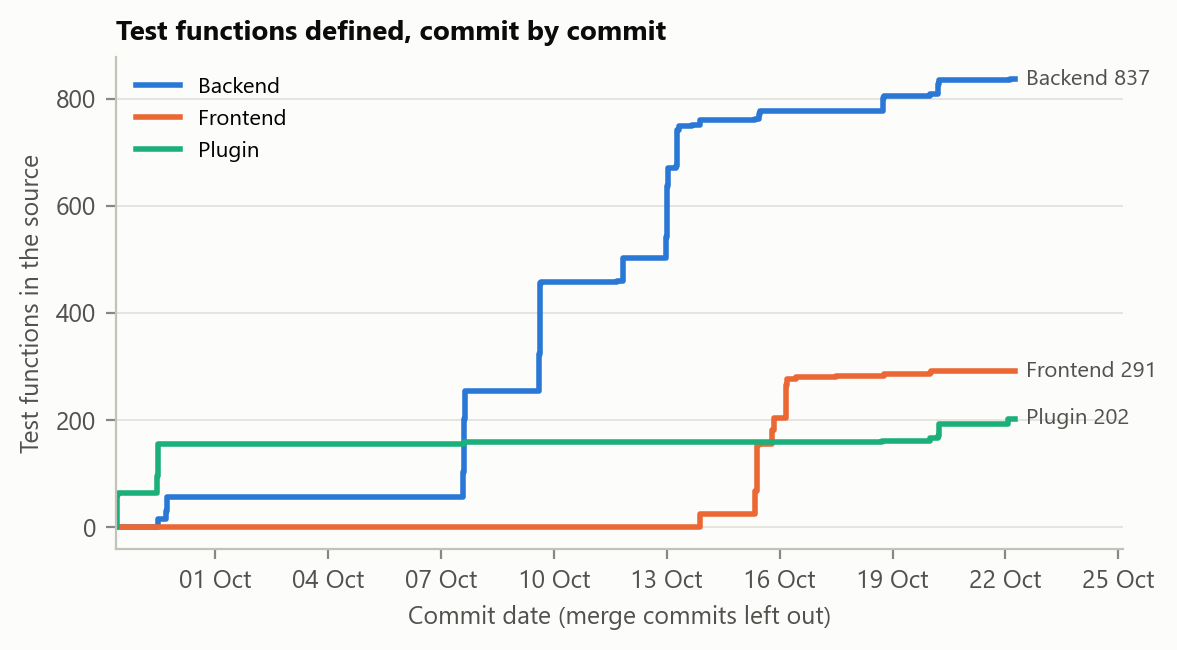
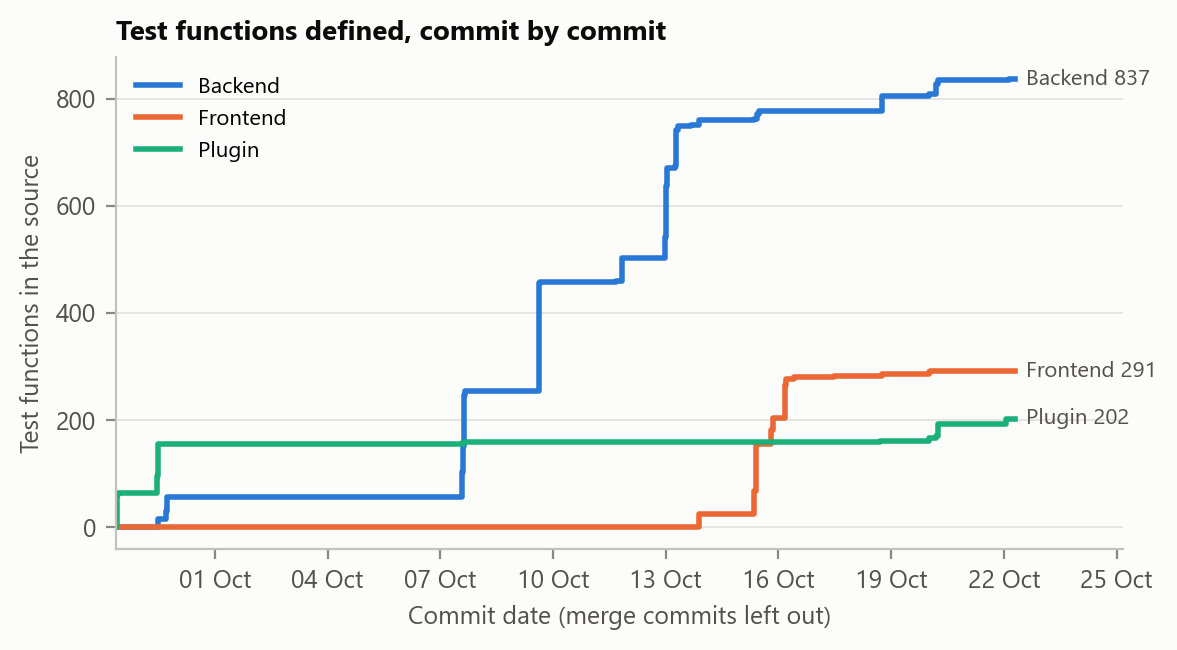
docs(testing): the gate's checks carry their own commit; the remaining figures in Annexure A
- The register stamps each gate check with the gate run's own commit and that commit's CI run,
  read from the log's name, instead of the campaign's commit; Annexure B names the gate run.
- Annexure A.14 shows the four figures the chapter does not: test growth, tests by phase, the
  simulator's validation, and complexity against branch coverage.
- The experiments' files are copied with LF, as the repository stores text.
- The draft cites gate runs and the register as they are, and fills every gate-run reference
  from the cited gate's log.

diff --git a/scripts/report/test_register.py b/scripts/report/test_register.py
@@ -209,6 +209,7 @@ class Register:
         self.commit = manifest["commit"][:7]
         self.steps = {step["name"]: step for step in manifest["steps"]}
         self.rows: list[Row] = []
+        self.gate_run = ""
 
     def add(self, *, suite: str, level: str, technique: str, component: str, file: str, test: str,
             needle: str, description: str, result: str, time: float, ci_job: str | None) -> None:
@@ -351,7 +352,13 @@ class Register:
                     time=seconds(case), ci_job=None,
                 )
 
-    def gate(self, log: Path) -> None:
+    def gate(self, log: Path, ci_path: Path | None) -> None:
+        # The gate ran at its own commit, named in its log's file name (gate-run-<n>-<commit>.log),
+        # and CI's Phase 0 job at that commit is the one that also ran its Phase 0 checks.
+        named = re.match(r"gate-run-(\d+)-([0-9a-f]{7})", log.name)
+        gate_commit = named.group(2) if named else self.commit
+        self.gate_run = named.group(1) if named else ""
+        gate_ci = ci_links(ci_path, gate_commit)
         phase = "0"
         lines = log.read_text(encoding="utf-8", errors="replace").splitlines()
         for index, line in enumerate(lines):
@@ -371,6 +378,8 @@ class Register:
                 )
                 # The gate's phase is the check's own, not the commit that added it.
                 self.rows[-1].phase = phase
+                self.rows[-1].ran_at = gate_commit
+                self.rows[-1].ci = gate_ci.get("Phase checks", "") if phase == "0" else ""
 
 
 # --------------------------------------------------------------------------------------------------
@@ -405,7 +414,7 @@ def write(register: Register) -> None:
             writer.writerow([
                 suite, rows[0].level if len({r.level for r in rows}) == 1 else "mixed", len(rows),
                 counts["passed"], counts["failed"], counts["error"], counts["skipped"],
-                round(sum(row.seconds for row in rows), 1), register.commit, rows[0].ci,
+                round(sum(row.seconds for row in rows), 1), rows[0].ran_at, rows[0].ci,
             ])
 
     lines = [
@@ -416,14 +425,16 @@ def write(register: Register) -> None:
         "are in `data/test-register.csv`. *Test* is the name the runner reported, as the chapter cites "
         "it, and *What it checks* the test's own description where it has one. *Added in* is the commit "
         "that introduced the test and *Phase* that commit's phase (H: the hardening of Phases 1 to 6). "
-        "Every result is from the campaign's commit; under each suite is the CI run that also ran it, "
-        "where CI runs that suite.",
+        "Every result is from the campaign's commit, except the gate's checks, which are from the gate "
+        "run named under that suite. Under each suite is the CI run that also ran it, where CI runs "
+        "that suite.",
         "",
     ]
     for suite, rows in by_suite.items():
         counts = Counter(row.result for row in rows)
         verdict = ", ".join(f"{count} {result}" for result, count in counts.most_common())
-        lines += [f"## {suite}", "", f"{len(rows)} tests: {verdict}. Ran at `{register.commit}`."]
+        gate = f", gate run {register.gate_run}" if rows[0].file == "scripts/verify.py" and register.gate_run else ""
+        lines += [f"## {suite}", "", f"{len(rows)} tests: {verdict}. Ran at `{rows[0].ran_at}`{gate}."]
         if rows[0].ci:
             link = re.fullmatch(r"(CI run \d+) \((https://\S+)\)", rows[0].ci)
             lines.append(f"Also run by CI on every push: {f'[{link.group(1)}]({link.group(2)})' if link else rows[0].ci}.")
@@ -468,7 +479,7 @@ def main() -> int:
     register.frontend()
     register.lighthouse_audits()
     register.sample_services()
-    register.gate(args.gate)
+    register.gate(args.gate, args.ci)
     provenance.save()
     write(register)
 

diff --git a/docs/testing/work-in-progress/fill_placeholders.py b/docs/testing/work-in-progress/fill_placeholders.py
@@ -60,6 +60,30 @@ def outcome(row: dict[str, str]) -> str:
 
 filled: dict[str, str] = dict(values["literal"])
 
+# --- The gate run the chapter cites, read from its log ---------------------------------------------
+gate_log = repo / values["gate_log"]
+gate_lines = gate_log.read_text(encoding="utf-8", errors="replace").splitlines()
+gate_run = re.match(r"gate-run-(\d+)-([0-9a-f]{7})", gate_log.name)
+assert gate_run, f"not a gate log's name: {gate_log.name}"
+assert any(line.strip() == "ALL CHECKS PASSED" for line in gate_lines) and not any(line.startswith("[FAIL]") for line in gate_lines), \
+    f"{gate_log.name} did not pass, so the chapter cannot cite it"
+
+
+def gate_detail(check: str) -> str:
+    return gate_lines[gate_lines.index(f"[PASS] {check}") + 1].strip()
+
+
+published = re.fullmatch(r"(\d+) published, (\d+) failed, (\d+) dropped", gate_detail("a live plugin event reaches the backend"))
+gate_e2e = re.fullmatch(r"(\d+) passed", gate_detail("pytest -m e2e passes on the Compose stack"))
+assert published and gate_e2e, "the gate log's metrics or end-to-end line has another form"
+filled.update(
+    GATE_RUN=gate_run.group(1), GATE_COMMIT=gate_run.group(2), GATE_E2E=gate_e2e.group(1),
+    GATE_CHECKS=str(sum(1 for line in gate_lines if line.startswith("[PASS] "))),
+    R_METRICS_CHECK=(f"Passed in gate run {gate_run.group(1)}: {published.group(1)} events published since jenkins-dev "
+                     "started, " + ("none failed or dropped" if published.group(2) == published.group(3) == "0"
+                                    else f"{published.group(2)} failed and {published.group(3)} dropped")),
+)
+
 # --- CI history and the Lighthouse audits ----------------------------------------------------------
 ci_rows = read_csv(DATA / "ci-runs.csv")
 ci = {conclusion: sum(1 for r in ci_rows if r["conclusion"] == conclusion) for conclusion in ("success", "failure", "cancelled")}
@@ -87,7 +111,8 @@ for row in summary:
 rows.append(["**All**", "", f"**{totals[0]:,}**", f"**{totals[1]:,}**", f"**{totals[2] + totals[3]}**", f"**{totals[4]}**",
              f"**{totals[5]:,.0f}**", ""])
 filled["SUITES_TABLE"] = (
-    "**Table {T:suites}: Every suite the evidence campaign ran** (at `" + values["literal"]["COMMIT"]
+    "**Table {T:suites}: Every suite in the register** (the evidence campaign at `" + values["literal"]["COMMIT"]
+    + "`, and the gate's checks from gate run " + filled["GATE_RUN"] + " at `" + filled["GATE_COMMIT"]
     + "`; every test, with its file, phase, commit and CI link, is in Annexure B)" + LF + LF
     + table(["Suite", "Level", "Tests", "Passed", "Failed", "Skipped", "Seconds", "Also in CI"], rows,
             ["---", "---", "---:", "---:", "---:", "---:", "---:", "---"]))

diff --git a/scripts/report/testing_annexure.py b/scripts/report/testing_annexure.py
@@ -378,6 +378,31 @@ def section_complexity() -> list[str]:
     return lines
 
 
+# The figures the chapter does not show, so that every one the runs produced is in the report:
+# (file, caption, the data it is drawn from).
+FURTHER_FIGURES = [
+    ("f02-test-growth", "Test functions defined in the source, commit by commit, per component (merge commits left out)",
+     "`data/test-growth.csv`"),
+    ("f03-tests-by-phase", "The tests that ran in the evidence campaign, by the phase whose commit introduced each one",
+     "`data/test-register.csv`"),
+    ("f07-simulator-validation", "E2: the simulator against Milestone 2's measured runs, band by band",
+     "`data/experiments/simulation-m2-summary.csv`"),
+    ("f11-complexity-coverage", "The plugin's and the backend's functions with branches: cyclomatic complexity against "
+     "branch coverage, with those over 10 and under 80% covered named (the frontend's coverage is per file)",
+     "`data/complexity-all.csv`"),
+]
+
+
+def section_figures() -> list[str]:
+    lines = ["## A.14 Further figures", "",
+             "The chapter shows its figures where it discusses them; these four complete the set. Each is drawn "
+             "by `scripts/report/testing_figures.py` from the file named.", ""]
+    for number, (name, caption, source) in enumerate(FURTHER_FIGURES, start=1):
+        if (DOCS / "figures" / f"{name}.png").is_file():
+            lines += [f"![{caption}](figures/{name}.png)", "", f"**Figure A.{number}: {caption}** ({source})", ""]
+    return lines
+
+
 def main() -> int:
     parser = argparse.ArgumentParser(description=__doc__.splitlines()[0])
     parser.add_argument("campaign", type=Path)
@@ -394,7 +419,7 @@ def main() -> int:
                     section_coverage(args.campaign), section_mutation(args.campaign), section_experiments(),
                     section_system(args.system), section_screenshots(), section_lighthouse(args.campaign),
                     section_defects(), section_security(), section_dependency_scans(args.campaign),
-                    section_complexity()):
+                    section_complexity(), section_figures()):
         lines += section
     # newline: LF, as the repository stores text; text mode on Windows would write CRLF.
     (DOCS / "annexure-a-evidence.md").write_text("\n".join(lines) + "\n", encoding="utf-8", newline="\n")

diff --git a/scripts/report/testing_figures.py b/scripts/report/testing_figures.py
@@ -340,7 +340,8 @@ def copy_experiments(campaign: Path) -> None:
     target = DATA / "experiments"
     target.mkdir(parents=True, exist_ok=True)
     for source in sorted(folder.glob("*")) if folder.is_dir() else []:
-        (target / source.name).write_bytes(source.read_bytes())
+        # The experiments run on Windows and write CRLF; the repository stores text with LF.
+        (target / source.name).write_bytes(source.read_bytes().replace(b"\r\n", b"\n"))
         print(f"data experiments/{source.name}")
 
 
@@ -364,7 +365,7 @@ def figure_suites() -> None:
     axis.set_xscale("log")
     axis.set_xlabel("Tests that ran (log scale)")
     axis.grid(axis="y", visible=False)
-    axis.set_title("Every suite, one campaign: tests that ran per suite")
+    axis.set_title("Every suite in the register: tests that ran per suite")
     save(figure, "f01-tests-per-suite")
 
 

diff --git a/docs/testing/work-in-progress/chapter-8-draft.md b/docs/testing/work-in-progress/chapter-8-draft.md
@@ -19,8 +19,8 @@ results, and Section 8.10 summarises.
 **The rule for evidence.** Every result in this chapter comes from a run that happened, at a commit
 that is named. One evidence campaign ran every suite once, at commit `[[COMMIT]]` on
 [[DATE]], and kept each runner's own report: JUnit XML, coverage data, the mutation report and the
-logs (`scripts/test_campaign.py`). The register in Annexure B is built from those reports and lists
-every test that ran (`scripts/report/test_register.py`). Where a figure comes from an earlier run, it
+logs (`scripts/test_campaign.py`). The register in Annexure B is built from those reports and the
+gate run's log, and lists every test that ran (`scripts/report/test_register.py`). Where a figure comes from an earlier run, it
 says so. Nothing is estimated. Anything not yet run is listed as not yet run in Section 8.9.4.
 
 **A rehearsal of the campaign, at the earlier commit `ac8305a`, is not cited as evidence.** It is
@@ -32,10 +32,11 @@ recorded all the same:
 Its logs are kept, and Annexure A.2 describes it.
 
 **The results in brief.**
-- **The evidence campaign** ran [[TOTAL_TESTS]] tests in [[N_SUITES]] suites: [[TOTAL_PASSED]]
-  passed, [[TOTAL_FAILED]] failed and [[TOTAL_SKIPPED]] skipped (Section 8.9.1; every test in
-  Annexure B).
-- **The acceptance gate** passed all 89 of its checks on the same code, run 5 (Section 8.6.3).
+- **The register of every test** holds [[TOTAL_TESTS]] tests in [[N_SUITES]] suites, from the
+  evidence campaign and the gate run: [[TOTAL_PASSED]] passed, [[TOTAL_FAILED]] failed and
+  [[TOTAL_SKIPPED]] skipped (Section 8.9.1; every test in Annexure B).
+- **The acceptance gate** passed all [[GATE_CHECKS]] of its checks in gate run [[GATE_RUN]], at
+  `[[GATE_COMMIT]]` (Sections 8.4.8 and 8.6.3).
 - **Coverage:**
   - the plugin, 93.2% of lines and 79.4% of branches;
   - the backend, [[BACKEND_COVERAGE_ALL]] of statements over all its suites;
@@ -246,8 +247,8 @@ Table {T:matrix} in Section 8.5.4.
 **Deliverables.** The test code; the gate checks; the evidence campaign's reports; the register of
 every test (Annexure B); the evidence and data (Annexure A); and this chapter.
 
-**Schedule.** Tests were written within each phase, from 28 September to 22 October 2026, and the
-evidence campaign ran on [[DATE]]. The Phase 7 experiment on real Jenkins, and the Phase 8 chatbot
+**Schedule.** Tests were written within each phase, from 28 September to 22 October 2026 (Annexure
+A.14, Figures A.1 and A.2), and the evidence campaign ran on [[DATE]]. The Phase 7 experiment on real Jenkins, and the Phase 8 chatbot
 evaluation with human-labelled answers, come later and are outside this chapter (Section 8.9.4).
 
 ### 8.3.6 Task 6: inspection of the plan
@@ -491,7 +492,8 @@ The setting is now in `backend/pyproject.toml`, so every later measurement is ri
 Each gap now has a test, listed in D-069.
 
 **Complexity and coverage together.** Cyclomatic complexity [25] was measured for every function
-with lizard, to see where an untested branch matters most:
+with lizard, to see where an untested branch matters most. Annexure A.14 plots each function's
+complexity against its branch coverage (Figure A.4):
 [[COMPLEXITY_TABLE]]
 
 ### 8.4.7 Mutation testing
@@ -554,12 +556,13 @@ Every component is also checked without running it, on every push (Table {T:stat
 | --- | --- | --- | --- | --- |
 | Plugin | SpotBugs | Bug patterns in the bytecode | 0 bug instances | the campaign's plugin build |
 | Plugin | Spotless | Formatting | clean | the campaign's plugin build |
-| Backend | Ruff, with its Bandit security rules, and its formatter | Lint, imports, naming, security patterns, format | clean | gate run 5 |
-| Backend | mypy, strict | Types | clean | gate run 5 |
-| Frontend | ESLint, TypeScript strict | Lint, types | clean | gate run 5 |
+| Backend | Ruff, with its Bandit security rules, and its formatter | Lint, imports, naming, security patterns, format | clean | gate run [[GATE_RUN]] |
+| Backend | mypy, strict | Types | clean | gate run [[GATE_RUN]] |
+| Frontend | ESLint, TypeScript strict | Lint, types | clean | gate run [[GATE_RUN]] |
 
-Gate run 5 ran on code identical to the campaign's; the commits between them change documentation
-only.
+Gate run [[GATE_RUN]] ran at `[[GATE_COMMIT]]`. Between the campaign's commit and that one, the
+product's code changed only in the frontend's Vite version, a development tool (D-075); every other
+change is documentation or the scripts that build this chapter's tables.
 
 ## 8.5 Black-box testing
 
@@ -783,7 +786,7 @@ They check:
 - that the backend reports its database, Jenkins and model provider;
 - since D-070, that every container runs what the current source builds.
 
-All passed in the gate run at `[[GATE_COMMIT]]`.
+All passed in gate run [[GATE_RUN]], at `[[GATE_COMMIT]]`.
 
 **Compliance.** The project's own rules are gate checks, not conventions:
 - no use of Jenkins' script console anywhere;
@@ -804,7 +807,7 @@ All passed in the gate run at `[[GATE_COMMIT]]`.
     - **In the evidence campaign it ran with the real model,** in the suite's live mode, which it
       takes whenever a model key is configured: [[N_BACKEND_E2E]] tests, [[R_BACKEND_E2E]].
     - **The gate runs it on replayed recordings of the model,** so that its verdict depends on
-      neither the model nor its quota. Gate run 5 passed 12, plus the failing-branch chain
+      neither the model nor its quota. Gate run [[GATE_RUN]] passed [[GATE_E2E]], plus the failing-branch chain
       separately.
   - **The stack's system tests** take a freestyle chain and a Pipeline from a sentence typed into
     the stack's own frontend to a build that succeeds on an agent, followed live on the run card. The
@@ -978,6 +981,7 @@ compare policies.
 each FIFO band's wait within 0.1 s. Replaying the order Milestone 2's plugin actually dispatched in,
 it reproduced that run's band waits within 5 s each (at most 4.0%), and its 19 broken edges. The measured plugin run took
 6 s longer overall than the replay: the dispatcher's own delays, which the simulator does not model.
+Annexure A.14 draws the comparison band by band (Figure A.3).
 
 **Table {T:e2}: Milestone 2's workload under each policy** (simulated; mean wait per band and
 makespan in seconds; estimates known)
@@ -1149,7 +1153,7 @@ cycle to the report's Appendix F. None of it has run. E2 and E3 bear on its desi
 
 [[SUITES_TABLE]]
 
-[[FIGURE f01-tests-per-suite {F:suites} | The tests the evidence campaign ran, by suite and outcome]]
+[[FIGURE f01-tests-per-suite {F:suites} | Every test in the register, by suite: the evidence campaign's and the gate run's]]
 
 ### 8.9.2 The defects testing found
 
@@ -1281,8 +1285,13 @@ That is the report's claim, with its cost stated.
 **Limits of what did run:**
 - **One machine.** Every local result comes from one Windows 11 machine with 16 GB of memory, with
   the stack under Docker Desktop. CI ran on GitHub's Ubuntu runners. The load figures (Section 8.7.1)
-  describe this machine; they are not capacity claims. Memory was tight: two full gate runs were
-  stopped by the development tool for low memory, and both were run again in full.
+  describe this machine; they are not capacity claims.
+  - **It is a laptop with little memory to spare.** Two full gate runs were stopped by the
+    development tool for low memory. A third, gate run 6, failed one check when the laptop went onto
+    battery, which halves its processor's speed, and was suspended for 22 minutes in the middle of
+    the run; its log is kept beside the others. Each was run again in full.
+  - **Every result this chapter cites ran on mains power,** as Windows' battery report shows for
+    the times of the evidence campaign, the gate run cited and the load and recovery tests.
 - **One browser.** The browser flows, audits and screenshots ran in Google Chrome only. Firefox and
   Safari were not tested.
 - **Independence.** The developers wrote the tests, with an AI coding assistant. Only the security

diff --git a/docs/testing/annexure-b-test-register.md b/docs/testing/annexure-b-test-register.md
@@ -1,6 +1,6 @@
 # Annexure B: register of every test that ran
 
-Generated by `scripts/report/test_register.py` from the evidence campaign at commit `31eb935` and the gate's log. One row per test a runner reported; the same rows are in `data/test-register.csv`. *Test* is the name the runner reported, as the chapter cites it, and *What it checks* the test's own description where it has one. *Added in* is the commit that introduced the test and *Phase* that commit's phase (H: the hardening of Phases 1 to 6). Every result is from the campaign's commit; under each suite is the CI run that also ran it, where CI runs that suite.
+Generated by `scripts/report/test_register.py` from the evidence campaign at commit `31eb935` and the gate's log. One row per test a runner reported; the same rows are in `data/test-register.csv`. *Test* is the name the runner reported, as the chapter cites it, and *What it checks* the test's own description where it has one. *Added in* is the commit that introduced the test and *Phase* that commit's phase (H: the hardening of Phases 1 to 6). Every result is from the campaign's commit, except the gate's checks, which are from the gate run named under that suite. Under each suite is the CI run that also ran it, where CI runs that suite.
 
 ## Plugin unit tests (JUnit 5)
 
@@ -2432,8 +2432,7 @@ Also run by CI on every push: [CI run 39728490681](https://github.com/haiderali-
 
 ## Phase acceptance gate (scripts/verify.py)
 
-89 tests: 89 passed. Ran at `31eb935`.
-Also run by CI on every push: [CI run 39728490681](https://github.com/haiderali-dev/INTELLIGENT-CI-CD-ORCHESTRATOR-FYP/actions/runs/39728490681).
+89 tests: 89 passed. Ran at `8263a7e`, gate run 5.
 
 | # | Test | What it checks | File | Phase | Added in | Result | Time (s) |
 | ---: | --- | --- | --- | :---: | --- | --- | ---: |

diff --git a/docs/testing/annexure-a-evidence.md b/docs/testing/annexure-a-evidence.md
@@ -880,3 +880,23 @@ The ten most complex functions of each component:
 | Frontend | `runCardView` | `frontend/src/workspace/runCardModel.ts:60` | 12 | 25 | 87 | file |
 | Frontend | `QueueStatus` | `frontend/src/pages/QueuePage.tsx:156` | 10 | 24 | 92 | file |
 
+## A.14 Further figures
+
+The chapter shows its figures where it discusses them; these four complete the set. Each is drawn by `scripts/report/testing_figures.py` from the file named.
+
+![Test functions defined in the source, commit by commit, per component (merge commits left out)](figures/f02-test-growth.png)
+
+**Figure A.1: Test functions defined in the source, commit by commit, per component (merge commits left out)** (`data/test-growth.csv`)
+
+![The tests that ran in the evidence campaign, by the phase whose commit introduced each one](figures/f03-tests-by-phase.png)
+
+**Figure A.2: The tests that ran in the evidence campaign, by the phase whose commit introduced each one** (`data/test-register.csv`)
+
+![E2: the simulator against Milestone 2's measured runs, band by band](figures/f07-simulator-validation.png)
+
+**Figure A.3: E2: the simulator against Milestone 2's measured runs, band by band** (`data/experiments/simulation-m2-summary.csv`)
+
+![The plugin's and the backend's functions with branches: cyclomatic complexity against branch coverage, with those over 10 and under 80% covered named (the frontend's coverage is per file)](figures/f11-complexity-coverage.png)
+
+**Figure A.4: The plugin's and the backend's functions with branches: cyclomatic complexity against branch coverage, with those over 10 and under 80% covered named (the frontend's coverage is per file)** (`data/complexity-all.csv`)
+
